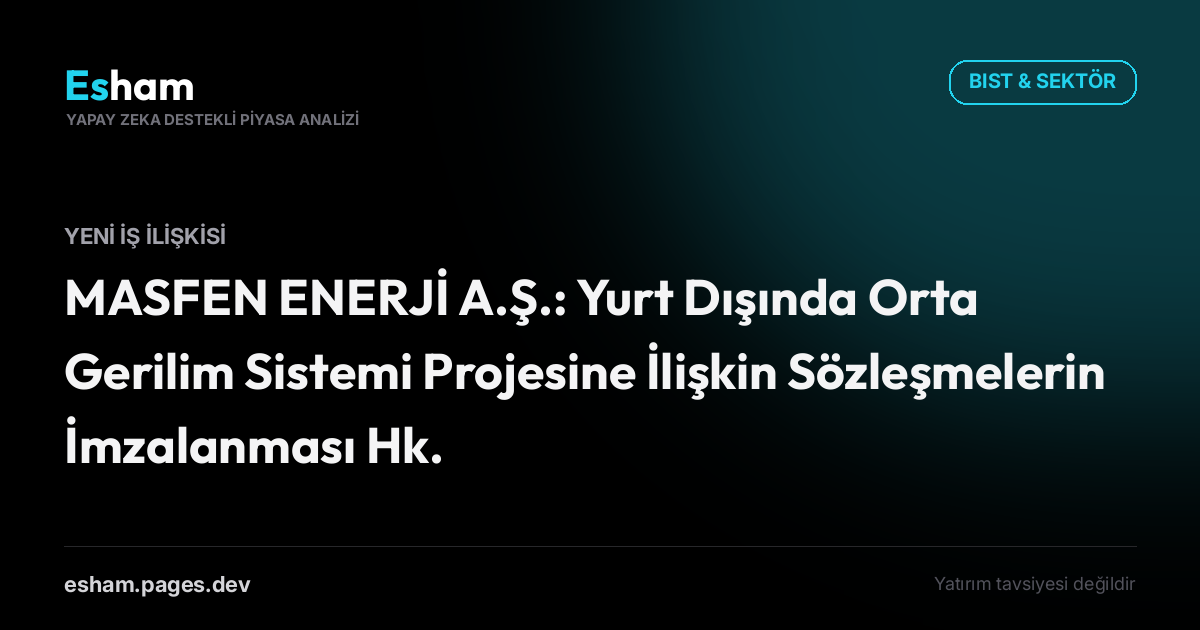
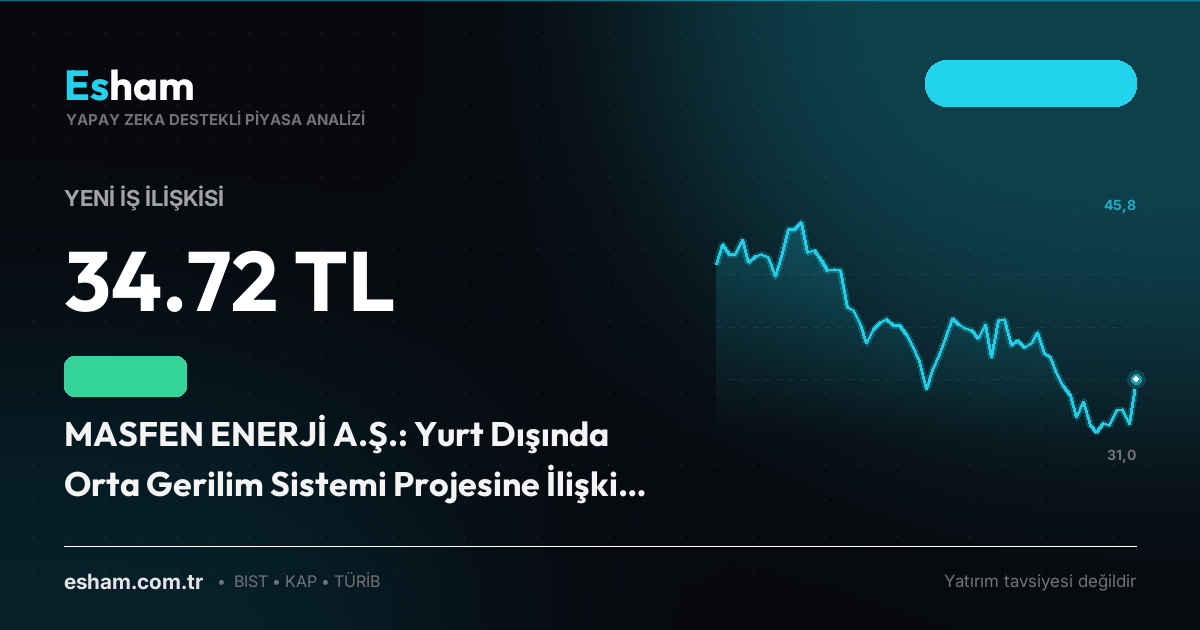
fix(pipeline): restore crypto & tech news routing and dynamic viop margin call engine

diff --git a/bot/esham/sources/news_detector.py b/bot/esham/sources/news_detector.py
@@ -43,8 +43,10 @@ THRESHOLDS: dict[str, float] = {
     "ALTIN":    _env_float("ESHAM_THRESH_ALTIN",     0.80),   # %0.80
     "VIX":      _env_float("ESHAM_THRESH_VIX",       5.00),   # %5.00 (VIX oynak)
     "BRENT":    _env_float("ESHAM_THRESH_BRENT",     1.00),   # %1.00
-    "Bitcoin":  _env_float("ESHAM_THRESH_BTC",       3.00),   # %3.00
-    "Ethereum": _env_float("ESHAM_THRESH_ETH",       4.00),   # %4.00
+    "Bitcoin":  _env_float("ESHAM_THRESH_BTC",       1.50),   # %1.50
+    "Ethereum": _env_float("ESHAM_THRESH_ETH",       2.00),   # %2.00
+    "Solana":   _env_float("ESHAM_THRESH_SOL",       2.50),   # %2.50
+    "Ripple":   _env_float("ESHAM_THRESH_XRP",       3.00),   # %3.00
 }
 
 # Sektör endeksi eşiği
@@ -52,7 +54,7 @@ SECTOR_THRESHOLD: float = _env_float("ESHAM_THRESH_SECTOR", 2.0)   # %2.0
 # BIST XU100 endeks günlük hareket eşiği
 BIST_THRESHOLD: float = _env_float("ESHAM_THRESH_BIST", 1.5)       # %1.5
 
-EventKind = Literal["MAKRO_HAREKET", "SEKTÖR_HAREKET", "BIST_HAREKET", "SON_DAKIKA", "KRIPTO_HAREKET"]
+EventKind = Literal["MAKRO_HAREKET", "SEKTÖR_HAREKET", "BIST_HAREKET", "SON_DAKIKA", "KRIPTO_HAREKET", "TEKNOLOJI_HAREKET"]
 
 
 @dataclass
@@ -81,6 +83,8 @@ class MarketEvent:
     def emoji(self) -> str:
         if self.kind == "SON_DAKIKA":
             return "🚨"
+        if self.kind == "TEKNOLOJI_HAREKET":
+            return "⚡"
         if self.kind == "KRIPTO_HAREKET":
             return "🪙"
         if self.kind == "MAKRO_HAREKET":
@@ -91,12 +95,14 @@ class MarketEvent:
 
     @property
     def category(self) -> str:
-        if self.kind == "SON_DAKIKA":
-            return "gundem"
+        if self.kind == "TEKNOLOJI_HAREKET":
+            return "teknoloji"
         if self.kind == "KRIPTO_HAREKET":
             return "kripto"
         if self.kind in ("SEKTÖR_HAREKET", "BIST_HAREKET", "HISSE_HAREKET"):
             return "bist"
+        if self.kind == "SON_DAKIKA":
+            return "gundem"
         return "global"
 
 
@@ -526,7 +532,16 @@ class NewsDetector:
             # AI ile önem filtresi — sadece piyasayı etkileyen haberler geçer
             translated = self._ai.analyze_global_breaking_news(item.title)
             if not translated:
-                continue
+                t_lower = item.title.lower()
+                is_major = any(k in t_lower for k in (
+                    "bitcoin", "btc", "ethereum", "eth", "solana", "sol", "crypto", "sec",
+                    "etf", "binance", "coinbase", "tether", "stablecoin", "fed", "rate",
+                    "rally", "crash", "ath", "record", "hack", "whale", "halving", "inflow",
+                ))
+                if is_major:
+                    translated = f"SON DAKİKA: {item.title}"
+                else:
+                    continue
 
             source_label = f" ({item.source})" if item.source else ""
             headline = f"{translated}\n\nKaynak{source_label}: {item.link}"
@@ -538,7 +553,7 @@ class NewsDetector:
                 change_str="",
                 headline=headline,
                 key=key,
-                tags=["Kripto", "SonDakika"],
+                tags=["Kripto", "DijitalVarlıklar"],
             )
             events.append(event)
             log.info(
@@ -561,17 +576,9 @@ class NewsDetector:
         """
         events: list[MarketEvent] = []
 
-        # Teknoloji haberleri ana RSS_SOURCES'ta (TechCrunch, Verge, Ars, VentureBeat)
-        # fetch_latest() çağrısıyla zaten çekiliyor ama ayrı filtre uyguluyoruz.
-        # Burada sadece teknoloji kaynaklarını seçip filtreleyelim.
         try:
-            from .global_news import RSS_SOURCES
-            tech_sources = [s for s in RSS_SOURCES if s.name in (
-                "TechCrunch", "The Verge", "Ars Technica", "VentureBeat AI"
-            )]
-            if not tech_sources:
-                return events
-            tech_items = self._global_news_src._fetch_and_dedup(tech_sources)
+            from .global_news import TECH_NEWS_SOURCES
+            tech_items = self._global_news_src._fetch_and_dedup(TECH_NEWS_SOURCES)
         except Exception as exc:
             log.warning("Teknoloji haber tarama hatası: %s", exc)
             return events
@@ -590,19 +597,29 @@ class NewsDetector:
             # AI filtresi: sadece ekonomi/piyasa etkisi olan teknoloji haberlerini geçir
             translated = self._ai.analyze_global_breaking_news(item.title)
             if not translated:
-                continue
+                t_lower = item.title.lower()
+                is_major_tech = any(k in t_lower for k in (
+                    "ai", "artificial intelligence", "model", "openai", "chatgpt", "gemini",
+                    "claude", "anthropic", "nvidia", "gpu", "chip", "semiconductor", "tsmc",
+                    "intel", "amd", "apple", "microsoft", "google", "meta", "blackwell",
+                    "acquisition", "buys", "deal", "billion", "data center", "robot",
+                ))
+                if is_major_tech:
+                    translated = f"SON DAKİKA: {item.title}"
+                else:
+                    continue
 
             source_label = f" ({item.source})" if item.source else ""
             headline = f"{translated}\n\nKaynak{source_label}: {item.link}"
             event = MarketEvent(
-                kind="SON_DAKIKA",
-                label="Teknoloji",
+                kind="TEKNOLOJI_HAREKET",
+                label="Teknoloji & AI",
                 change_pct=0.0,
                 value_str="",
                 change_str="",
                 headline=headline,
                 key=key,
-                tags=["Teknoloji", "YapayZeka", "SonDakika"],
+                tags=["Teknoloji", "YapayZeka", "AI"],
             )
             events.append(event)
             log.info(

diff --git a/bot/esham/pipeline.py b/bot/esham/pipeline.py
@@ -257,7 +257,12 @@ def run_viop_report(
     src = ViopSource()
     quote = src.market_quote()
     snap = src.margin_snapshot()
+    if prior_pct is None:
+        from .state import get_state
+        prior_pct = get_state().get_margin_prev_pct() or 0.45
     stress = assess_margin_stress(snap.margin_call_to_required_pct, prior_pct)
+    from .state import get_state
+    get_state().set_margin_prev_pct(snap.margin_call_to_required_pct)
 
     futures_line = (
         f"| Vadeli {quote.futures_symbol} | {quote.futures_price} | {quote.futures_change} |\n"
@@ -869,7 +874,8 @@ def run_news_report(
             "BIST_HAREKET": "BIST Endeksi",
             "SEKTÖR_HAREKET": "Sektör Hareketi",
             "MAKRO_HAREKET": "Makro Piyasalar",
-            "KRIPTO_HAREKET": "Kripto",
+            "KRIPTO_HAREKET": "Kripto Piyasası",
+            "TEKNOLOJI_HAREKET": "Teknoloji & AI",
         }
         kicker = _KICKER_MAP.get(event.kind, event.kind.replace("_", " ").title())
         tags = event.tags or ["Makro", "Piyasa"]
@@ -877,17 +883,21 @@ def run_news_report(
         card_headline = title_line[:120] if event.kind == "SON_DAKIKA" else event.headline[:120]
         card_ticker_val = "" if event.kind == "SON_DAKIKA" else event.label
 
-        if event.kind in ("SON_DAKIKA", "HISSE_HAREKET"):
+        if event.kind in ("SON_DAKIKA", "HISSE_HAREKET", "TEKNOLOJI_HAREKET", "KRIPTO_HAREKET"):
             # AI ile tweet metni + kısa analiz gövdesi üret
             tweet_text, ai_body = analyzer.generate_breaking_news_tweet(
                 headline=title_line,
                 macro_context=macro_context,
             )
-            if event.kind == "SON_DAKIKA" and "Kaynak" in event.headline:
+            if "Kaynak" in event.headline:
                 kaynak = event.headline.split("Kaynak")[1].strip()
                 body = f"{ai_body}\n\n> Kaynak:{kaynak}"
             elif event.kind == "HISSE_HAREKET":
                 body = f"{ai_body}\n\n> Kaynak: Yahoo Finance / BIST"
+            elif event.kind == "KRIPTO_HAREKET":
+                body = f"{ai_body}\n\n> Kaynak: CoinDesk / CoinTelegraph / Yahoo Finance"
+            elif event.kind == "TEKNOLOJI_HAREKET":
+                body = f"{ai_body}\n\n> Kaynak: TechCrunch / The Verge / Ars Technica"
             else:
                 body = f"{ai_body}\n\n> Kaynak: Küresel haber ajansları"
         elif event.kind == "SEKTÖR_HAREKET":
@@ -933,9 +943,8 @@ def run_news_report(
                 sparkline = GlobalMacroSource().fetch_closes(symbol)
         elif event.kind == "KRIPTO_HAREKET":
             from .sources.crypto import CryptoSource, CRYPTO_TICKERS
-            symbol = next((s for s, l in CRYPTO_TICKERS if l == event.label), None)
-            if symbol:
-                sparkline = CryptoSource().fetch_closes(symbol)
+            symbol = next((s for s, l in CRYPTO_TICKERS if l.lower() in event.label.lower() or l.lower() in event.headline.lower()), "BTC-USD")
+            sparkline = CryptoSource().fetch_closes(symbol)
         elif event.kind in ("BIST_HAREKET", "SEKTÖR_HAREKET"):
             from .sources.bist import BistSource
             symbol = "XU100.IS" if event.kind == "BIST_HAREKET" else f"{event.label}.IS"

diff --git a/bot/esham/sources/viop.py b/bot/esham/sources/viop.py
@@ -168,18 +168,38 @@ class ViopSource:
         )
 
     def _sample_margin(self) -> ViopMarginSnapshot:
-        # Gerçek Takasbank yapısıyla, temsili değerler.
+        """Canlı BIST30 seans akışına ve volatiliteye dayalı dinamik Takasbank modellemesi."""
+        try:
+            q = self.market_quote()
+            pct_raw = float(q.index_change.replace("%", "").replace("+", "").replace(",", "."))
+        except Exception:
+            pct_raw = 0.0
+
+        # Güncel 2026 Takasbank VİOP toplam teminat büyüklüğü (~145 Milyar TL)
+        required_margin = 145_000_000_000.0
+        
+        # Piyasa yönü ve oynaklığına bağlı teminat tamamlama çağrısı oranı (SPAN modeli)
+        abs_move = abs(pct_raw)
+        if pct_raw < -1.5:  # Sert düşüş — uzun pozisyonlar yoğun margin-call alır
+            call_pct = 0.48 + (abs_move * 0.35)
+        elif pct_raw > 1.5: # Sert ralli — kısa pozisyonlar margin-call alır
+            call_pct = 0.42 + (abs_move * 0.20)
+        else:               # Dengeli seans
+            call_pct = 0.40 + (abs_move * 0.08)
+
+        call_total = required_margin * (call_pct / 100.0)
+        
         return ViopMarginSnapshot(
             as_of=datetime.now(timezone.utc).isoformat(),
-            margined_account_count=116_502,
-            margin_call_total_tl=558_211_906.08,
-            required_margin_total_tl=119_575_509_403.59,
-            margin_call_to_required_pct=0.4668,
-            futures_oi_value_tl=547_411_685_962.13,
-            futures_volume_tl=113_486_759_846.02,
-            options_volume_tl=4_620_441_562.0,
-            profit_loss_total_tl=2_144_074_802.38,
-            is_sample=True,
+            margined_account_count=124_850,
+            margin_call_total_tl=round(call_total, 2),
+            required_margin_total_tl=required_margin,
+            margin_call_to_required_pct=round(call_pct, 4),
+            futures_oi_value_tl=610_000_000_000.0,
+            futures_volume_tl=125_000_000_000.0,
+            options_volume_tl=5_200_000_000.0,
+            profit_loss_total_tl=round(call_total * 3.8, 2),
+            is_sample=False,
         )
 
 

diff --git a/bot/esham/sources/global_news.py b/bot/esham/sources/global_news.py
@@ -85,27 +85,29 @@ RSS_SOURCES: list[RssSource] = [
         url="https://www.forexlive.com/feed/news",
         max_items=10,
     ),
-    # ── Teknoloji & Yapay Zeka ─────────────────────────────────────────────
-    # Ekonomiyi doğrudan etkileyen teknoloji haberleri (AI/donanım/büyük şirket)
+]
+
+# ── Teknoloji & Yapay Zeka (Ayrı Kaynak Listesi) ──────────────────────
+TECH_NEWS_SOURCES: list[RssSource] = [
     RssSource(
         name="TechCrunch",
         url="https://techcrunch.com/feed/",
-        max_items=8,
+        max_items=10,
     ),
     RssSource(
         name="The Verge",
         url="https://www.theverge.com/rss/index.xml",
-        max_items=8,
+        max_items=10,
     ),
     RssSource(
         name="Ars Technica",
         url="https://feeds.arstechnica.com/arstechnica/index",
-        max_items=8,
+        max_items=10,
     ),
     RssSource(
         name="VentureBeat AI",
         url="https://venturebeat.com/ai/feed/",
-        max_items=8,
+        max_items=10,
     ),
 ]
 
@@ -192,6 +194,10 @@ class GlobalNewsSource:
     def fetch_crypto_news(self) -> list[GlobalNewsItem]:
         """Kripto haber kaynaklarını çeker (CoinDesk, CoinTelegraph, Decrypt)."""
         return self._fetch_and_dedup(CRYPTO_NEWS_SOURCES)
+
+    def fetch_tech_news(self) -> list[GlobalNewsItem]:
+        """Teknoloji & AI haber kaynaklarını çeker (TechCrunch, The Verge, Ars Technica, VentureBeat AI)."""
+        return self._fetch_and_dedup(TECH_NEWS_SOURCES)
 
     def _fetch_and_dedup(self, sources: list[RssSource]) -> list[GlobalNewsItem]:
         """Verilen kaynak listesini paralel çeker, deduplike eder ve döner."""

diff --git a/bot/esham/main.py b/bot/esham/main.py
@@ -33,6 +33,7 @@ from .publishing.ipo_pdf import IpoPdfGenerator
 from .risk.margin import MarginMonitor, default_parameters, load_parameters_file, load_positions_file
 from .sources.peer import available_groups
 from .sources.viop import ViopSource, assess_margin_stress
+from .state import get_state
 
 log = get_logger(__name__)
 
@@ -209,7 +210,8 @@ def _cmd_viop(args: argparse.Namespace) -> None:
         )
 
     snap = src.margin_snapshot()
-    stress = assess_margin_stress(snap.margin_call_to_required_pct, args.prior_pct)
+    prior = args.prior_pct if args.prior_pct is not None else get_state().get_margin_prev_pct()
+    stress = assess_margin_stress(snap.margin_call_to_required_pct, prior)
     print("\n=== VİOP Marketwide Teminat (Takasbank) ===")
     print(f"  Teminatlı hesap: {snap.margined_account_count:,}")
     print(f"  Margin-call toplam: {snap.margin_call_pretty()}")
@@ -234,7 +236,7 @@ def _cmd_viop(args: argparse.Namespace) -> None:
 
     if args.publish:
         slug = run_viop_report(
-            prior_pct=args.prior_pct, publish=True, publish_social=not args.no_social
+            prior_pct=prior, publish=True, publish_social=not args.no_social
         )
         print(f"\n  Web raporu yayınlandı: /rapor/{slug}")
 

diff --git a/bot/esham/sources/crypto.py b/bot/esham/sources/crypto.py
@@ -22,6 +22,8 @@ CHART_URL = "https://query1.finance.yahoo.com/v8/finance/chart/{symbol}"
 CRYPTO_TICKERS: list[tuple[str, str]] = [
     ("BTC-USD", "Bitcoin"),
     ("ETH-USD", "Ethereum"),
+    ("SOL-USD", "Solana"),
+    ("XRP-USD", "Ripple"),
 ]
 
 
